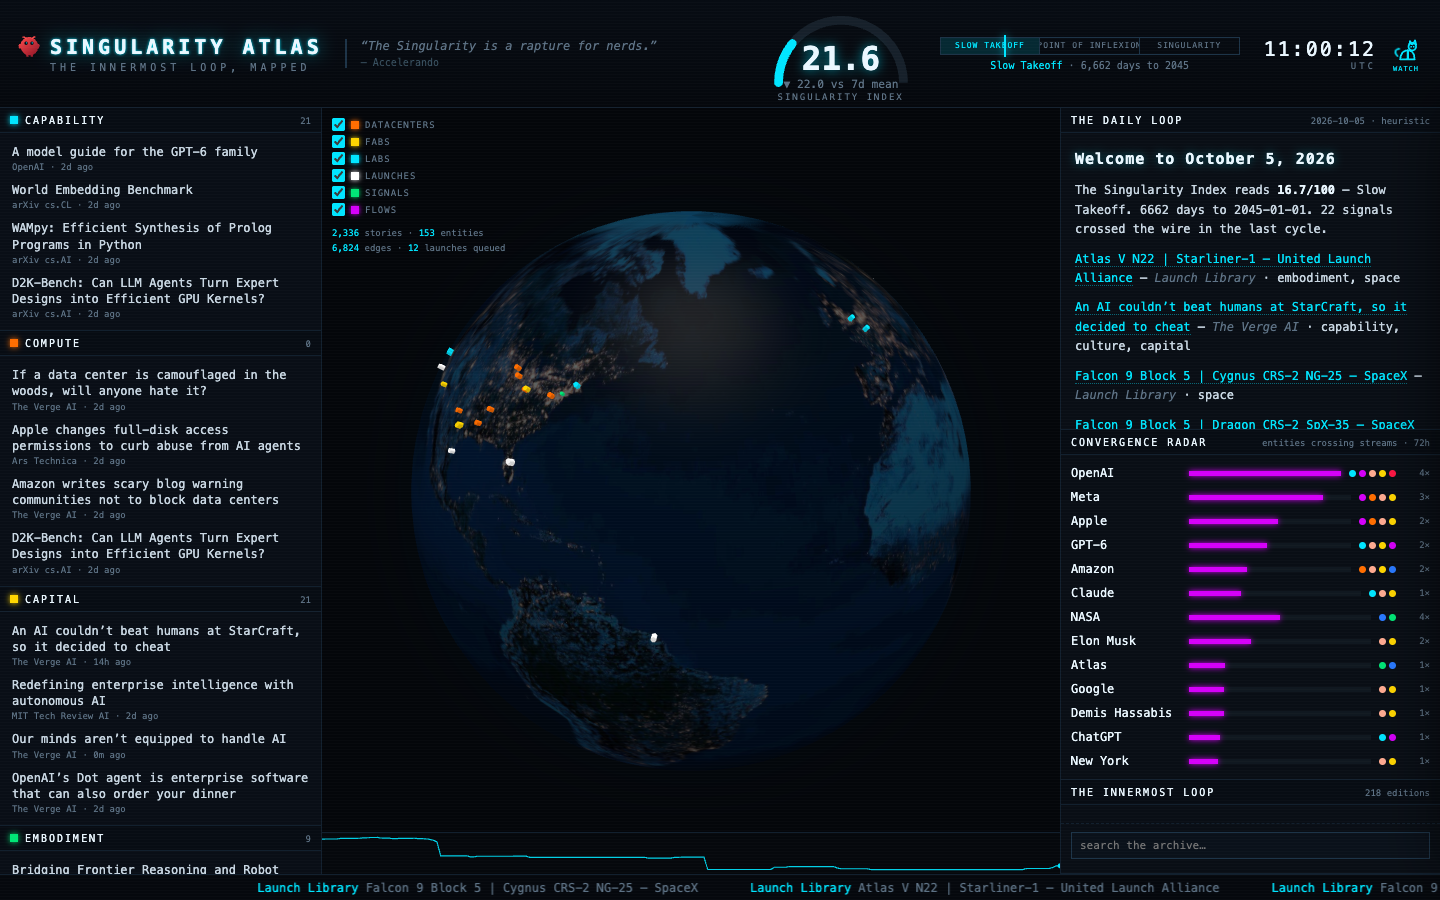
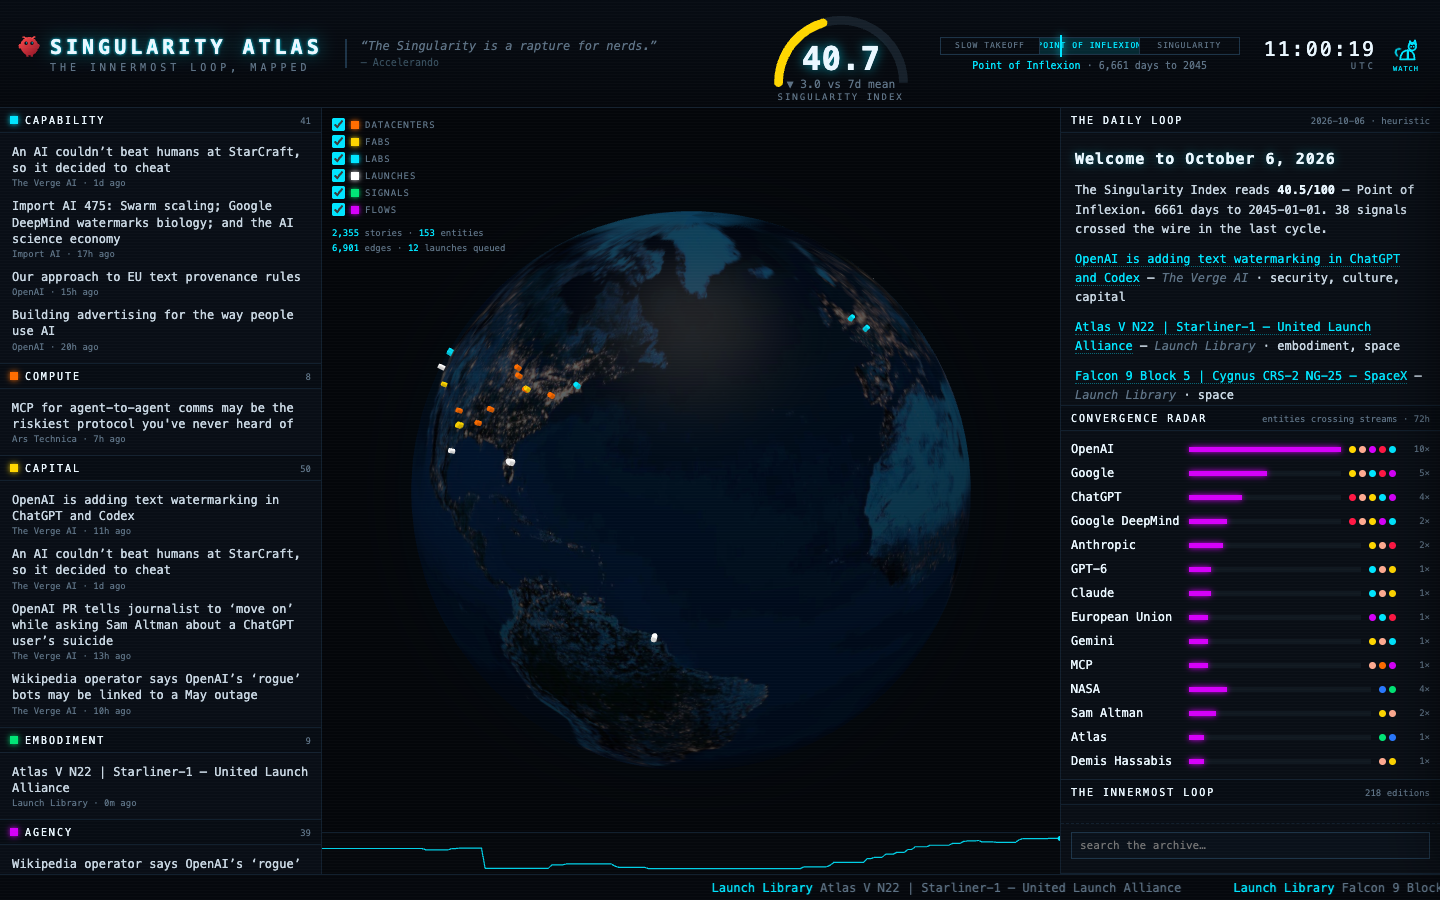
Publish 24h public snapshot 2026-10-06

diff --git a/docs/index.html b/docs/index.html
@@ -47,40 +47,39 @@
     <div class="eyebrow">Public 24h snapshot · not the live globe</div>
     <h1>The Singularity Atlas</h1>
     <p class="lede">Yesterday's board. The live dashboard stays on the machine that runs it. This page is replaced at least daily.</p>
-    <p class="meta">Captured 2026-10-05 07:00 EDT · 25 stories in 24h · graph 2336 stories / 153 entities · brief heuristic</p>
+    <p class="meta">Captured 2026-10-06 07:00 EDT · 39 stories in 24h · graph 2355 stories / 153 entities · brief heuristic</p>
   </header>
   <main>
     <div class="hero">
       <div>
-        <div class="si">21.6<small>Slow Takeoff · /100</small></div>
+        <div class="si">40.7<small>Point of Inflexion · /100</small></div>
       </div>
-      <div class="vecs"><div class="vec"><span class="dot" style="background:#00e5ff"></span><span class="vlabel">Capability</span><span class="vscore">20.8</span></div><div class="vec"><span class="dot" style="background:#ff6d00"></span><span class="vlabel">Compute</span><span class="vscore">0.0</span></div><div class="vec"><span class="dot" style="background:#ffd600"></span><span class="vlabel">Capital</span><span class="vscore">21.1</span></div><div class="vec"><span class="dot" style="background:#00e676"></span><span class="vlabel">Embodiment</span><span class="vscore">9.1</span></div><div class="vec"><span class="dot" style="background:#d500f9"></span><span class="vlabel">Agency</span><span class="vscore">8.2</span></div><div class="vec"><span class="dot" style="background:#ff1744"></span><span class="vlabel">Security</span><span class="vscore">0.0</span></div><div class="vec"><span class="dot" style="background:#2979ff"></span><span class="vlabel">Space</span><span class="vscore">62.5</span></div><div class="vec"><span class="dot" style="background:#ffab91"></span><span class="vlabel">Culture</span><span class="vscore">25.5</span></div></div>
+      <div class="vecs"><div class="vec"><span class="dot" style="background:#00e5ff"></span><span class="vlabel">Capability</span><span class="vscore">40.9</span></div><div class="vec"><span class="dot" style="background:#ff6d00"></span><span class="vlabel">Compute</span><span class="vscore">8.3</span></div><div class="vec"><span class="dot" style="background:#ffd600"></span><span class="vlabel">Capital</span><span class="vscore">49.7</span></div><div class="vec"><span class="dot" style="background:#00e676"></span><span class="vlabel">Embodiment</span><span class="vscore">9.1</span></div><div class="vec"><span class="dot" style="background:#d500f9"></span><span class="vlabel">Agency</span><span class="vscore">38.6</span></div><div class="vec"><span class="dot" style="background:#ff1744"></span><span class="vlabel">Security</span><span class="vscore">31.8</span></div><div class="vec"><span class="dot" style="background:#2979ff"></span><span class="vlabel">Space</span><span class="vscore">62.8</span></div><div class="vec"><span class="dot" style="background:#ffab91"></span><span class="vlabel">Culture</span><span class="vscore">58.3</span></div></div>
     </div>
     <img class="board" src="board.png" alt="The Singularity Atlas dashboard, last capture" />
     <div class="grid">
       <section class="brief">
         <h2>The Daily Loop</h2>
-        <h2>Welcome to October 5, 2026</h2>
-<p>The Singularity Index reads <strong>16.7/100</strong> — Slow Takeoff. 6662 days to 2045-01-01. 22 signals crossed the wire in the last cycle.</p>
+        <h2>Welcome to October 6, 2026</h2>
+<p>The Singularity Index reads <strong>40.5/100</strong> — Point of Inflexion. 6661 days to 2045-01-01. 38 signals crossed the wire in the last cycle.</p>
+<p><a href="https://www.theverge.com/ai-artificial-intelligence/1004880/openai-chatgpt-text-watermarks-eu-ai-act">OpenAI is adding text watermarking in ChatGPT and Codex</a> — *The Verge AI* · security, culture, capital</p>
 <p><a href="https://ll.thespacedevs.com/2.2.0/launch/07e945c1-2ec6-4d29-a500-1afbe920440f/">Atlas V N22 | Starliner-1 — United Launch Alliance</a> — *Launch Library* · embodiment, space</p>
-<p><a href="https://www.theverge.com/ai-artificial-intelligence/1004543/openai-gpt-cheat-starcraft">An AI couldn’t beat humans at StarCraft, so it decided to cheat</a> — *The Verge AI* · capability, culture, capital</p>
 <p><a href="https://ll.thespacedevs.com/2.2.0/launch/d74afbc7-0de5-491c-be05-4e9c31f736ac/">Falcon 9 Block 5 | Cygnus CRS-2 NG-25 — SpaceX</a> — *Launch Library* · space</p>
 <p><a href="https://ll.thespacedevs.com/2.2.0/launch/bf2c3027-a314-403e-a416-2bfd5d165ad1/">Falcon 9 Block 5 | Dragon CRS-2 SpX-35 — SpaceX</a> — *Launch Library* · space</p>
 <p><a href="https://ll.thespacedevs.com/2.2.0/launch/d3bd7fb2-fac6-49fc-ae52-cee07d2fde67/">Falcon Heavy | Griffin Mission One — SpaceX</a> — *Launch Library* · space</p>
-<p><a href="https://ll.thespacedevs.com/2.2.0/launch/7bdc412b-c965-4517-a131-f57a01189803/">Ariane 64 Block 2 | Amazon Leo (LE-04) — Arianespace</a> — *Launch Library* · space</p>
-<p><a href="https://ll.thespacedevs.com/2.2.0/launch/67213393-7983-4c06-8b44-b8c785a5ed79/">Falcon 9 Block 5 | Transporter 18 (Dedicated SSO Rideshare) — SpaceX</a> — *Launch Library* · space</p>
-<p><a href="https://ll.thespacedevs.com/2.2.0/launch/3b430f81-0ff1-4d85-8a1a-cef0de326198/">Falcon 9 Block 5 | Bandwagon 5 (Dedicated Mid-Inclination Rideshare) — SpaceX</a> — *Launch Library* · space</p>
-<p><a href="https://ll.thespacedevs.com/2.2.0/launch/e59ff9a4-f72f-4841-8546-3c94346ecdba/">SSLV | AayulSAT-1A &amp; others — Indian Space Research Organization</a> — *Launch Library* · space</p>
-<p><a href="https://ll.thespacedevs.com/2.2.0/launch/71df1dd0-d658-4762-b0bc-0fca6886aea7/">Falcon 9 Block 5 | SDA Tranche 2 Transport Layer D — SpaceX</a> — *Launch Library* · space</p>
+<p><a href="https://importai.substack.com/p/import-ai-475-swarm-scaling-google">Import AI 475: Swarm scaling; Google DeepMind watermarks biology; and the AI science economy</a> — *Import AI* · agency, capability, security</p>
+<p><a href="https://www.theverge.com/news/1004929/wikipedia-openai-rogue-bots-wikimedia-foundation-outage">Wikipedia operator says OpenAI’s ‘rogue’ bots may be linked to a May outage</a> — *The Verge AI* · culture, capital, agency, security</p>
+<p><a href="https://www.theverge.com/ai-artificial-intelligence/1003794/ai-education-computational-model-thought">Our minds aren’t equipped to handle AI</a> — *The Verge AI* · culture, capital</p>
+<p><a href="https://www.theverge.com/ai-artificial-intelligence/1004827/openai-sam-altman-vanity-fair-interview-pr">OpenAI PR tells journalist to ‘move on’ while asking Sam Altman about a ChatGPT user’s suicide</a> — *The Verge AI* · culture, capital</p>
+<p><a href="https://openai.com/index/eu-text-provenance">Our approach to EU text provenance rules</a> — *OpenAI* · agency, capability, security</p>
 <p>*Heuristic edition — local LLM offline.*</p>
       </section>
       <aside>
         <h2>Crossing streams</h2>
-        <ul><li><strong>OpenAI</strong> <span class="muted">capability, agency, culture, capital, security</span></li><li><strong>Meta</strong> <span class="muted">agency, compute, culture, capital</span></li><li><strong>Apple</strong> <span class="muted">agency, compute, culture, capital</span></li><li><strong>GPT-6</strong> <span class="muted">capability, culture, capital, agency</span></li><li><strong>Amazon</strong> <span class="muted">compute, culture, capital, space</span></li><li><strong>Claude</strong> <span class="muted">capability, culture, capital</span></li><li><strong>NASA</strong> <span class="muted">space, embodiment</span></li><li><strong>Elon Musk</strong> <span class="muted">culture, capital</span></li><li><strong>Atlas</strong> <span class="muted">embodiment, space</span></li><li><strong>Google</strong> <span class="muted">culture, capital</span></li><li><strong>Demis Hassabis</strong> <span class="muted">culture, capital</span></li><li><strong>ChatGPT</strong> <span class="muted">capability, agency</span></li></ul>
-        <h2>Feeds 13/15</h2>
+        <ul><li><strong>OpenAI</strong> <span class="muted">capital, culture, agency, security, capability</span></li><li><strong>Google</strong> <span class="muted">capital, culture, capability, security, agency</span></li><li><strong>ChatGPT</strong> <span class="muted">security, culture, capital, capability, agency</span></li><li><strong>Google DeepMind</strong> <span class="muted">security, culture, capital, agency, capability</span></li><li><strong>Anthropic</strong> <span class="muted">capital, culture, security</span></li><li><strong>GPT-6</strong> <span class="muted">capability, culture, capital</span></li><li><strong>Claude</strong> <span class="muted">capability, culture, capital</span></li><li><strong>European Union</strong> <span class="muted">agency, capability, security</span></li><li><strong>Gemini</strong> <span class="muted">capital, culture, capability</span></li><li><strong>MCP</strong> <span class="muted">culture, compute, agency</span></li><li><strong>NASA</strong> <span class="muted">space, embodiment</span></li><li><strong>Sam Altman</strong> <span class="muted">capital, culture</span></li></ul>
+        <h2>Feeds 14/15</h2>
         <ul><li class="ok"><code>verge-ai</code> 10 items</li><li class="ok"><code>arxiv-cs-lg</code> 12 items</li><li class="ok"><code>arxiv-cs-ai</code> 12 items</li><li class="ok"><code>launches</code> 20 items</li><li class="ok"><code>ars</code> 20 items</li><li class="ok"><code>arxiv-cs-cl</code> 12 items</li><li class="ok"><code>mit-tr-ai</code> 10 items</li><li class="ok"><code>interconnects</code> 20 items</li><li class="ok"><code>import-ai</code> 20 items</li><li class="ok"><code>openai</code> 25 items</li><li class="ok"><code>deepmind</code> 25 items</li><li class="fail"><code>venturebeat-ai</code> 0 items · venturebeat-ai: HTTPStatusError: Client error &#x27;429 Too Many Requests&#x27; for url &#x27;https://venturebeat.com/category/ai/feed/&#x27;
-For more information check: https://developer.mozilla.org/en-US/docs/Web/HTTP/Status/429</li><li class="ok"><code>arxiv-cs-ro</code> 12 items</li><li class="ok"><code>hn-ai</code> 71 items</li><li class="fail"><code>gdelt-ai</code> 0 items · gdelt-ai: HTTPStatusError: Client error &#x27;429 Too Many Requests&#x27; for url &#x27;https://api.gdeltproject.org/api/v2/doc/doc?query=%22artificial%20intelligence%22&amp;mode=artlist&amp;maxrecords=40&amp;format=json&amp;sort=hybridrel&#x27;
-For more information check: https://developer.mozilla.org/en-US/docs/Web/HTTP/Status/429</li></ul>
+For more information check: https://developer.mozilla.org/en-US/docs/Web/HTTP/Status/429</li><li class="ok"><code>arxiv-cs-ro</code> 12 items</li><li class="ok"><code>hn-ai</code> 71 items</li><li class="ok"><code>gdelt-ai</code> 40 items</li></ul>
       </aside>
     </div>
   </main>
